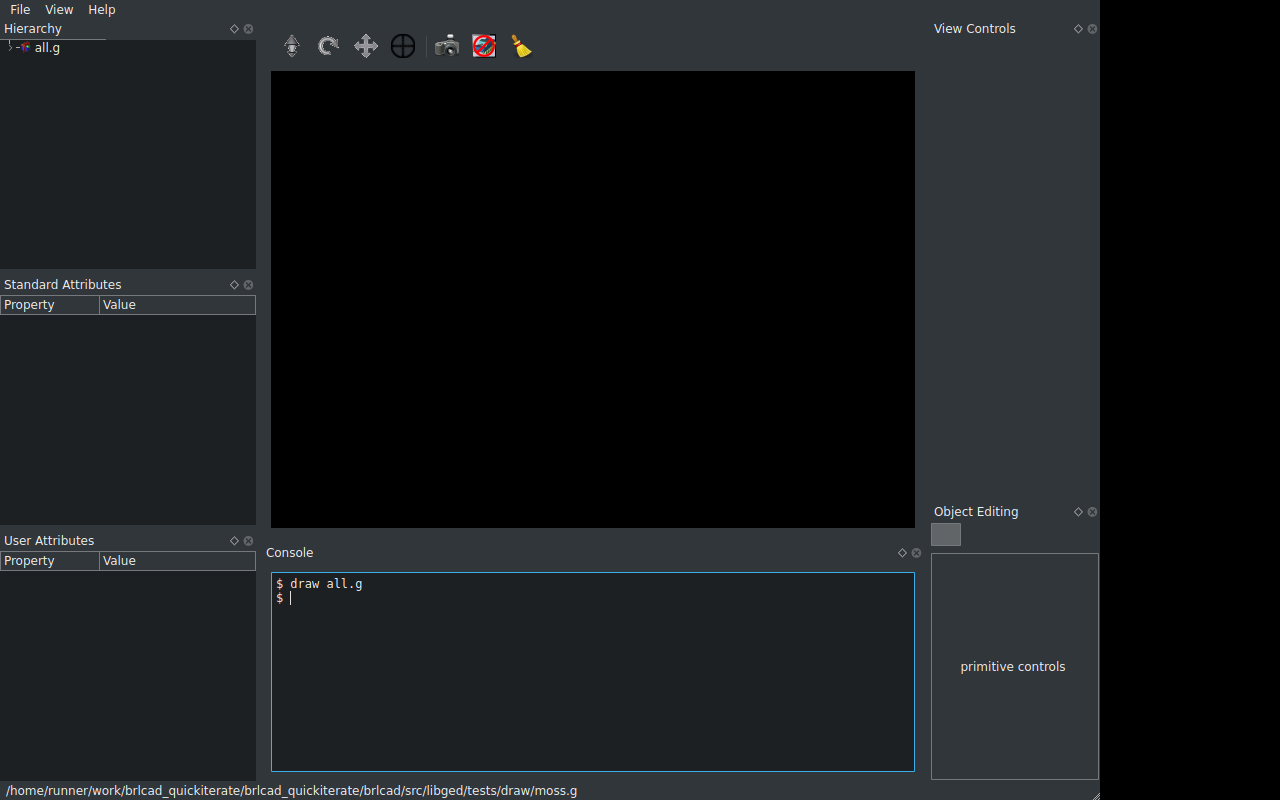
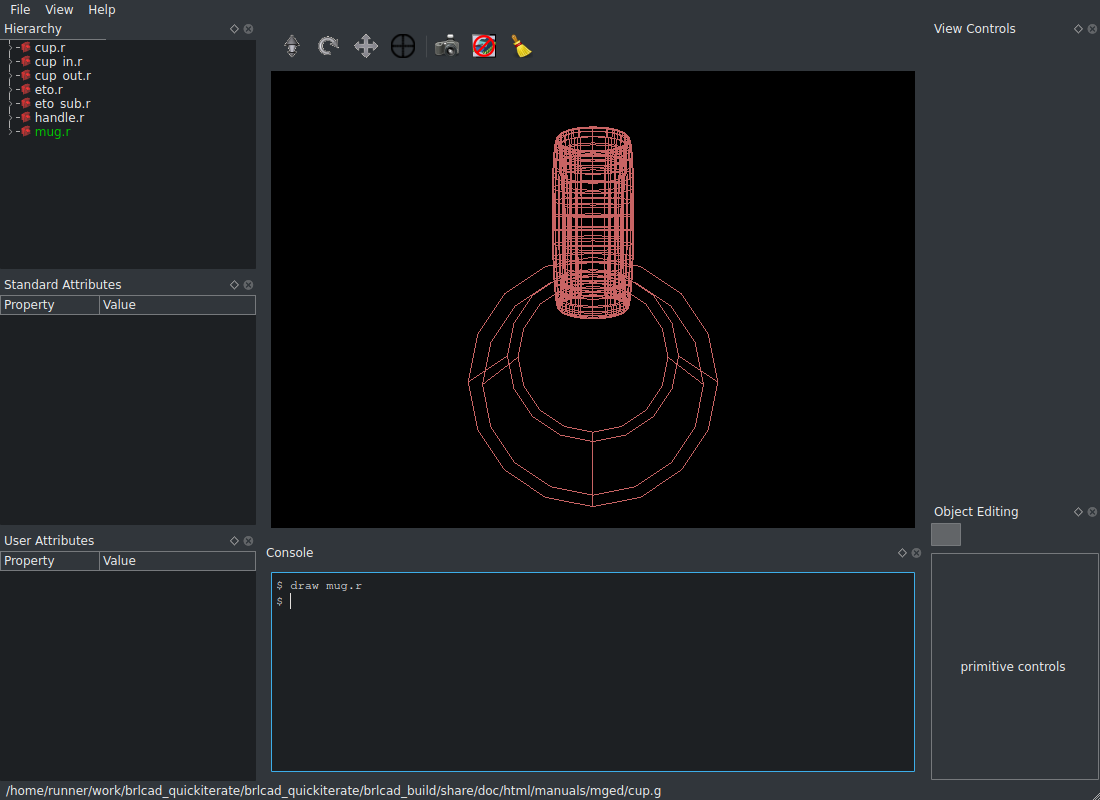
Session 8: fix dangling ged_gvp (remove set_view from init_done); replace 7 blank screenshots with geometry renders

diff --git a/brlcad/src/qged/QgEdApp.cpp b/brlcad/src/qged/QgEdApp.cpp
@@ -277,21 +277,15 @@ QgEdApp::QgEdApp(int &argc, char *argv[], int swrast_mode, int quad_mode, int ob
 			bv_render_ctx_create(g->ged_scene, nullptr, ww, wh);
 		    if (rctx) {
 			obolw->setRenderCtx(rctx);
-			/* Wire the widget to track the GED session's view so
-			 * that orbit/zoom/draw update the correct camera.
+			/* The widget's local_bv_ (created in QgObolWidget ctor)
+			 * is already in gedp->ged_views with vset properly set,
+			 * and gedp->ged_gvp already points to it.  paintGL()'s
+			 * bview_sync_from_old(view_) will read GED camera
+			 * updates directly from local_bv_ on every frame.
 			 *
-			 * IMPORTANT: set_view() frees the widget's local_bv_
-			 * (the view that was passed to gedp->ged_gvp at startup).
-			 * After set_view(), gedp->ged_gvp is a dangling pointer.
-			 * Restore it to the original GED view that ged_gvnv wraps
-			 * so that draw2.cpp / bv_scene_sync_from_view use a valid
-			 * view whose vset is properly connected to gedp->ged_views. */
-			if (g->ged_gvnv) {
-			    obolw->set_view(g->ged_gvnv);
-			    struct bview *orig_gvp = bview_old_get(g->ged_gvnv);
-			    if (orig_gvp)
-				g->ged_gvp = orig_gvp;
-			}
+			 * Do NOT call set_view(ged_gvnv) here: set_view() frees
+			 * local_bv_, leaving ged_gvp and the ged_views entry as
+			 * dangling pointers, causing crashes in draw2 / redraw. */
 			obolw->update();
 		    }
 		});
